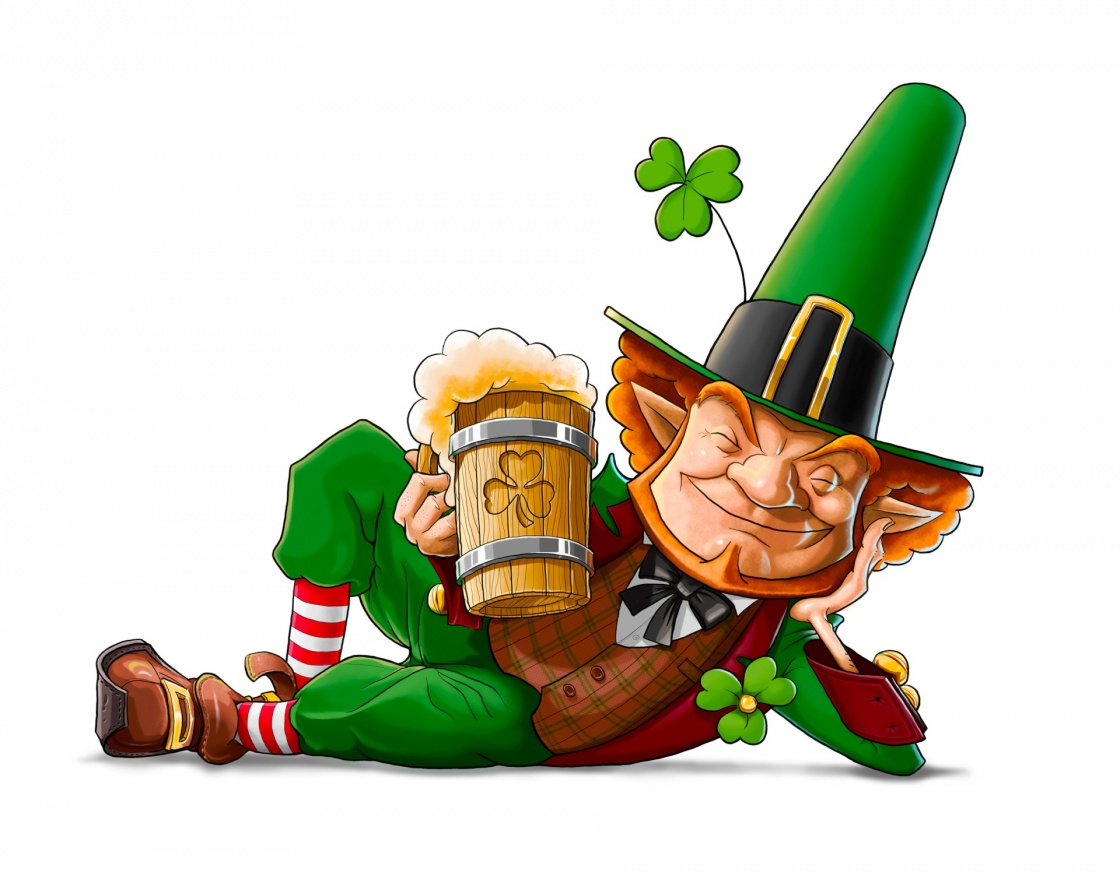
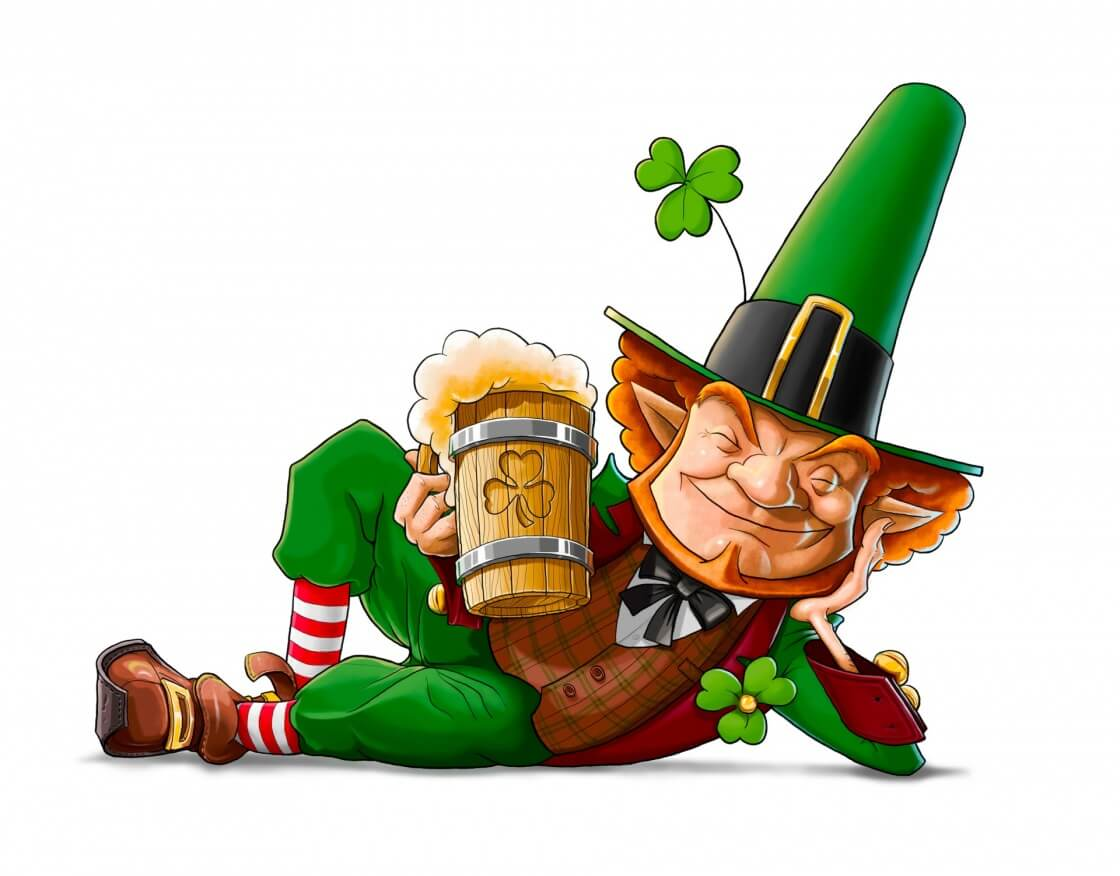
Updated styling of the register page, minor corrections

diff --git a/templates/register.html b/templates/register.html
@@ -1,58 +1,52 @@
 {% extends "base.html" %}
-{% block title %}Log In{% endblock %}
+{% block title %}Register{% endblock %}
 
 {% block content %}
-<div class="container">
-    <h1 class="text-center" style="display: none;">Double Shamrock rules</h1>
-    <h3 class="text-center">Register</h3>
-    <div class="row justify-content-center">
-        <form class="col-md-8 col-md-offset-2 col-sm-12 register-form" method="POST" action="">
-            {{ form.hidden_tag() }}
-            <div class="card">
-                <div class="card-body">
-                    <!-- username -->
-                    <div class="row">
-                        <div class="col col-sm-12">
-                            <div class="input-group mb-3">
-                                <span class="input-group-text register-icon"><i class="fas fa-user-cog"></i></span>
-                                {{ form.username(placeholder="Username", class="form-control") }} 
-                                {% for error in form.username.errors %}
-                                <small class="text-red">{{ error }}</small>
-                                {% endfor %}
+<div class="login-reg-container">
+    <img src="../static/images/leprachaun-login-reg.png" 
+        alt="leprachaun" 
+        class="leprachaun-login-reg">
+    <img src="../static/images/leprechaun-with-beer.jpg" alt="leprechaun-with-beer" 
+        class="log-reg-leprechaun-with-beer-register">
 
-                            </div>
-                        </div>
-                    </div>
-                    <!-- password -->
-                    <div class="row">
-                        <div class="col col-sm-12">
-                            <div class="input-group mb-3">
-                                <span class="input-group-text register-icon"><i class="fas fa-user-lock"></i></span>
-                                {{ form.password (placeholder="Password", class="form-control") }}
-                                {% for error in form.password.errors %}
-                                <small class="text-red">{{ error }}</small>
-                                {% endfor %}
-                            </div>
-                        </div>
-                    </div>
-                    <!-- confirm password -->
-                    <div class="row">
-                        <div class="col col-sm-12">
-                            <div class="input-group mb-3">
-                                <span class="input-group-text register-icon"><i class="fas fa-user-lock"></i></span>
-                                {{ form.confirm_password(placeholder="Confirm password", class="form-control") }}
-                                {% for error in form.confirm_password.errors %}
-                                <small class="text-red">{{ error }}</small>
-                                {% endfor %}
-                            </div>
-                        </div>
-                    </div>
-                    <!-- register button-->
-                        {{ form.submit(class="col col-sm-12  btn register-btn") }}
-  
+    <div class="log-reg-section">
+        <h1 class="log-reg-heading">Register</h1>
+        <div class="row ">
+            <form class="register-form" method="POST" action="">
+                {{ form.hidden_tag() }}
+                <!-- username -->
+                <div class="input-group mb-3">
+                    <span class="input-group-text register-icon"><i class="fas fa-user-cog"></i></span>
+                    {{ form.username(placeholder="Username", class="form-control") }} 
+                    {% for error in form.username.errors %}
+                    <small class="text-red">{{ error }}</small>
+                    {% endfor %}
                 </div>
-            </div>
-        </form>
+                <!-- password -->
+                <div class="input-group mb-3">
+                    <span class="input-group-text register-icon"><i class="fas fa-user-lock"></i></span>
+                    {{ form.password (placeholder="Password", class="form-control") }}
+                    {% for error in form.password.errors %}
+                    <small class="text-red">{{ error }}</small>
+                    {% endfor %}
+                </div>
+                <!-- confirm password -->
+                <div class="input-group mb-3">
+                    <span class="input-group-text register-icon"><i class="fas fa-user-lock"></i></span>
+                    {{ form.confirm_password(placeholder="Confirm password", class="form-control") }}
+                    {% for error in form.confirm_password.errors %}
+                    <small class="text-red">{{ error }}</small>
+                    {% endfor %}
+                    <!-- register button-->
+                    {{ form.submit(class="col-12 mt-4 btn register-btn") }}
+                </div>
+                <div class="text-center mt-2">
+                    <small>Already a user?
+                        <a href="{{url_for('login')}}" class="log-reg-small-link">Login here!</a>
+                    </small>
+                </div>
+            </form>
+        </div>
     </div>
 </div>
 {% endblock %}

diff --git a/static/style.css b/static/style.css
@@ -213,6 +213,17 @@ body {
     background-color:  #048158;
 }
 
+.log-reg-small-link:link,
+.log-reg-small-link:visited {
+    color: rgb(41, 41, 41);
+    transition: all .2s;
+}
+
+.log-reg-small-link:hover {
+    text-decoration: none;
+    color: var(--main-green);
+}
+
 .login-icon,
 .register-icon {
     color: var(--main-orange);
@@ -497,7 +508,15 @@ i.rating {
     .log-reg-leprechaun-with-beer {
         display: block;
         position: absolute;
-        top: 4rem;
+        top: 2.5rem;
+        left: 38rem;
+        width: 20rem;
+    }
+
+    .log-reg-leprechaun-with-beer-register {
+        display: block;
+        position: absolute;
+        top: .8rem;
         left: 38rem;
         width: 20rem;
     }

diff --git a/templates/login.html b/templates/login.html
@@ -30,7 +30,12 @@
                     {% endfor %}
                     
                     <!-- Login button -->
-                    {{ form.submit(class="col-12 mt-3 btn login-btn") }}
+                    {{ form.submit(class="col-12 mt-4 btn login-btn") }}
+                </div>
+                <div class="text-center mt-2">
+                    <small>Don't have an acoount?
+                        <a href="{{url_for('register')}}" class="log-reg-small-link">Create one!</a>
+                    </small>
                 </div>
             </form>
         </div>
